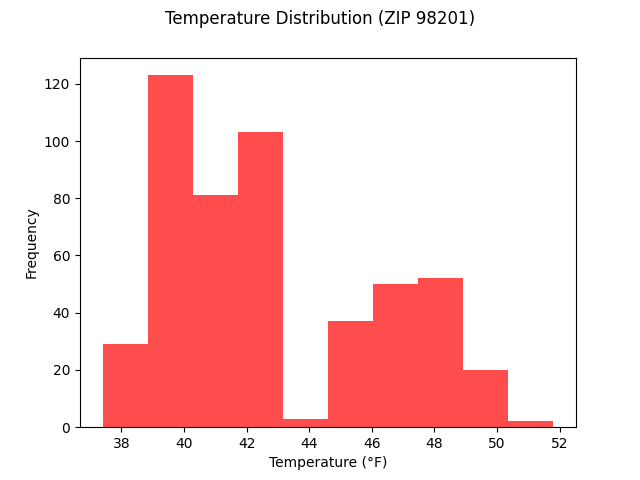
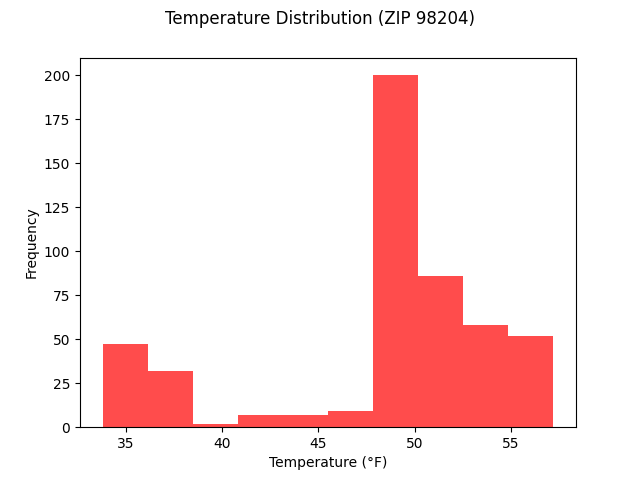
Found a workaround for the native memory lead. No longer opening the png files. Instead we are rendering them ourselves in the gui.

diff --git a/weather_GUI.py b/weather_GUI.py
@@ -76,9 +76,12 @@ import matplotlib
 matplotlib.use('Agg')
 print("Matplotlib backend:", matplotlib.get_backend())  # should say "agg"
 
+
+from matplotlib.backends.backend_tkagg import FigureCanvasTkAgg
+from matplotlib.figure import Figure
+import matplotlib.dates as mdates
 import customtkinter as ctk
 import tkinter.messagebox as messagebox
-from PIL import Image, ImageTk
 import json
 import threading
 import os
@@ -297,30 +300,50 @@ class WeatherAppGUI(ctk.CTk):
         self.humid_stats.grid(row=0, column=1, padx=40, pady=10, sticky="w")
 
         # -------PLOT WIDGETS-------
+        # We are using a matplotlib figure canvas to display the plots instead of an image label because it is more efficient and uses less memory 
+        # than loading the plot images as separate files and then displaying them in image labels. This was causing a native memory leak that was 
+        # not being resolved by garbage collection, even after closing the figures and deleting the image objects, the memory used by the images was not being freed.
+        # By using a matplotlib figure canvas, we can directly render the plots onto the canvas without having to save them as image files and load them back into the GUI, 
+        # which helps to prevent the memory leak and reduce the overall memory usage of the application. We create the figure and canvas here so we can just update the 
+        # figure with new plots when fetching new data for different zip codes instead of having to destroy and recreate the canvas and figure every time.
         # -------------STANDARD PLOT WIDGETS-------------
         # Message Label
         self.std_msg_label = ctk.CTkLabel(self.std_plot_frame, text="", font=ctk.CTkFont(family="Arial",size=16, weight="bold"), justify="center")
         self.std_msg_label.pack(pady=10, padx=20)
-        # Image Label and image control
-        # self.std_img_ctl = ctk.CTkImage(light_image=None, dark_image=None, size=(0, 0))
-        self.std_img_label = ctk.CTkLabel(self.std_plot_frame, image=None, text="")
-        self.std_img_label.pack(pady=15)
+        # Direct creation of standard plot cavas widget
+        self.std_fig = Figure(figsize=(9, 5), dpi=100)
+        self.std_subplot = self.std_fig.add_subplot(111)
+        self.std_canvas = FigureCanvasTkAgg(self.std_fig, master=self.std_plot_frame)
+        self.std_canvas.get_tk_widget().pack(fill="both", expand=True)
+        # Image Label
+        # self.std_img_label = ctk.CTkLabel(self.std_plot_frame, image=None, text="")
+        # self.std_img_label.pack(pady=15)
         # -------------BOX PLOT WIDGETS-------------
         # Message Label
         self.box_msg_label = ctk.CTkLabel(self.box_plot_frame, text="", font=ctk.CTkFont(family="Arial",size=16, weight="bold"), justify="center")
         self.box_msg_label.pack(pady=10, padx=20)
-        # Image Label and image control
-        # self.box_img_ctl = ctk.CTkImage(light_image=None, dark_image=None, size=(0, 0))
-        self.box_img_label = ctk.CTkLabel(self.box_plot_frame, image=None, text="")
-        self.box_img_label.pack(pady=15)
+        # Direct creation of box plot canvas widget
+        self.box_fig = Figure(figsize=(7, 5), dpi=100   )
+        self.box_subplot = self.box_fig.add_subplot(111)
+        self.box_canvas = FigureCanvasTkAgg(self.box_fig, master=self.box_plot_frame)
+        self.box_canvas.get_tk_widget().pack(fill="both", expand=True)
+        # Image Label
+        # self.box_img_label = ctk.CTkLabel(self.box_plot_frame, image=None, text="")
+        # self.box_img_label.pack(pady=15)
         # -------------TEMPERATURE HISTOGRAM WIDGETS-------------
         # Message Label
         self.temp_hist_msg_label = ctk.CTkLabel(self.temp_hist_frame, text="", font=ctk.CTkFont(family="Arial",size=16, weight="bold"), justify="center")
         self.temp_hist_msg_label.pack(pady=10, padx=20)
+        # Direct creation of temperature histogram canvas widget
+        self.fig_hist = Figure(figsize=(7, 5), dpi=100)
+        self.hist_subplot = self.fig_hist.add_subplot(111)
+        self.hist_canvas = FigureCanvasTkAgg(self.fig_hist, master=self.temp_hist_frame)
+        self.hist_canvas.get_tk_widget().pack(fill="both", expand=True)
+
         # Image Label and image control
         # self.temp_hist_img_ctl = ctk.CTkImage(light_image=None, dark_image=None, size=(0, 0))
-        self.temp_hist_img_label = ctk.CTkLabel(self.temp_hist_frame, image=None, text="")
-        self.temp_hist_img_label.pack(pady=15)
+        # self.temp_hist_img_label = ctk.CTkLabel(self.temp_hist_frame, image=None, text="")
+        # self.temp_hist_img_label.pack(pady=15)
 
         # Raw Forecast Data header
         self.forecast_raw_data_lable = ctk.CTkLabel(self.forecast_raw_data_frame, text="Raw Forecast Data (JSON format)", font=ctk.CTkFont("Arial", size=20, weight="bold"))
@@ -521,7 +544,7 @@ class WeatherAppGUI(ctk.CTk):
         Examples:
             generate_plots()
         """
-        #self.backend.create_plots(self.temp_list, self.humidity_list, self.timestamps)
+        self.backend.create_plots(self.temp_list, self.humidity_list, self.timestamps)
         plt.close('all')  # Close all figures to free memory
         gc.collect()  # Force garbage collection to free memory used by the plots
 
@@ -685,28 +708,58 @@ class WeatherAppGUI(ctk.CTk):
         """
         message = self.print_records_message()
         for plot_name in ["weather.png", "boxplot.png", "temperature_histogram.png"]:
-            if os.path.exists(plot_name):
-                try:
-                    with Image.open(plot_name) as img:
-                        img.thumbnail((700, 500))  # reasonable max size
-                        photo = ImageTk.PhotoImage(img)
+            try:
+                # with Image.open(plot_name) as img:
+                #     img.thumbnail((700, 500))  # reasonable max size
+                #     photo = ImageTk.PhotoImage(img)
 
-                        if plot_name == "weather.png":
-                            self.std_msg_label.configure(text=message)  # Update the message above the standard plot
-                            self.std_img_label.configure(image=photo)
-                            self.std_img_label.image = photo  # Keep a reference to prevent garbage collection
-                        elif plot_name == "boxplot.png":
-                            self.box_msg_label.configure(text=message)  # Update the message above the box plot
-                            self.box_img_label.configure(image=photo)
-                            self.box_img_label.image = photo  # Keep a reference to prevent garbage collection
-                        elif plot_name == "temperature_histogram.png":
-                            self.temp_hist_msg_label.configure(text=message)  # Update the message above the temperature histogram
-                            self.temp_hist_img_label.configure(image=photo)
-                            self.temp_hist_img_label.image = photo  # Keep a reference to prevent garbage collection
-                
-                        img.close()  # Close the image file after loading it into the label
-                except:
-                    pass
+                if plot_name == "weather.png":
+                    self.std_msg_label.configure(text=message)
+                    self.std_msg_label.configure(text=message)
+                    self.std_subplot.clear()
+                    self.std_subplot.plot(self.timestamps["temp"], self.temp_list, label="Temperature (°F)", color="red", linewidth=1.5)
+                    self.std_subplot.plot(self.timestamps["humidity"], self.humidity_list, label="Humidity (%)", color="blue", linewidth=1.5)
+                    self.std_subplot.legend(loc="upper right")
+                    self.std_subplot.set_title(f"Temperature and Humidity Over Time (ZIP {self.backend.zip_code})")
+                    self.std_subplot.set_xlabel("Observation Time")
+                    self.std_subplot.set_ylabel("Value")
+                    self.std_subplot.xaxis.set_major_locator(mdates.AutoDateLocator(maxticks=15))
+                    self.std_subplot.xaxis.set_major_formatter(mdates.DateFormatter('%m-%d %H:%M'))
+                    self.std_subplot.tick_params(axis='x', rotation=45, labelsize=9)
+                    self.std_subplot.grid(True, linestyle='--', alpha=0.5)
+                    self.std_canvas.draw()
+                elif plot_name == "boxplot.png":
+                    self.box_msg_label.configure(text=message)
+                    self.box_subplot.clear()
+                    self.box_subplot.boxplot([self.temp_list, self.humidity_list], tick_labels=["Temperature (°F)", "Humidity (%)"], 
+                                                patch_artist=True, boxprops=dict(facecolor='lightblue', color='blue'), medianprops=dict(color='red'))
+                    self.box_subplot.set_title(f"Temperature and Humidity Distribution (ZIP {self.backend.zip_code})")
+                    self.box_canvas.draw()
+                    # self.box_msg_label.configure(text=message)  # Update the message above the box plot
+                    # self.box_img_label.configure(image=photo)
+                    # self.box_img_label.image = photo  # Keep a reference to prevent garbage collection
+                elif plot_name == "temperature_histogram.png":
+                    self.temp_hist_msg_label.configure(text=message)  # Update the message above the temperature histogram
+                    self.hist_subplot.clear()
+                    self.hist_subplot.hist(self.temp_list, bins=10, color='salmon', edgecolor='black', alpha=0.7)
+                    self.hist_subplot.set_title(f"Temperature Distribution (ZIP {self.backend.zip_code})") 
+                    self.hist_subplot.set_xlabel("Temperature (°F)")
+                    self.hist_subplot.set_ylabel("Frequency")
+                    self.hist_canvas.draw() 
+                    # self.temp_hist_img_label.configure(image=photo)
+                    # self.temp_hist_img_label.image = photo  # Keep a reference to prevent garbage collection
+
+                    # self.hist_msg_label.configure(text=message)
+                    # self.ax_hist.clear()
+                    # self.ax_hist.hist(self.temp_list, bins=10, color="red", alpha=0.7)
+                    # self.ax_hist.set_title(f"Temperature Distribution (ZIP {self.backend.zip_code})")
+                    # self.ax_hist.set_xlabel("Temperature (°F)")
+                    # self.ax_hist.set_ylabel("Frequency")
+                    # self.canvas_hist.draw()
+        
+                #img.close()  # Close the image file after loading it into the label
+            except:
+                pass
 
     def update_hist_raw_data_tab(self) -> None:
         """ Called from show_results, it updates the historical raw data tab by first creating the headers for the raw data display by calling the 
@@ -759,7 +812,7 @@ class WeatherAppGUI(ctk.CTk):
         # Update GUI with new data and plots
         self.update_forecast_tab()
         self.update_stats_tab()
-        #self.update_plots()
+        self.update_plots()
         self.update_hist_raw_data_tab()
         self.update_forecast_raw_data_tab()
 

diff --git a/README.md b/README.md
@@ -1,9 +1,9 @@
 CEIS110 - Intro to programming
 
-There are three files here.  
+There are four files here.  
 The first one "Turned-in-Final.py" is the actual class final that was turned in. 
   
-The second one "Enhanced-Final.py" is what I turned the class final into. There is a huge difference between the two.  
+The second one "noaa_weather_backend.py" is what I turned the class final into. There is a huge difference between the two.  
   
 The third "Calculator.py" This is one that I did while taking the class. It wasn't an assignment but I wanted to practice.  
 &nbsp;&nbsp;&nbsp;&nbsp;To challenge myself I chose to write a calculator that would take an entire expression and print out the  
